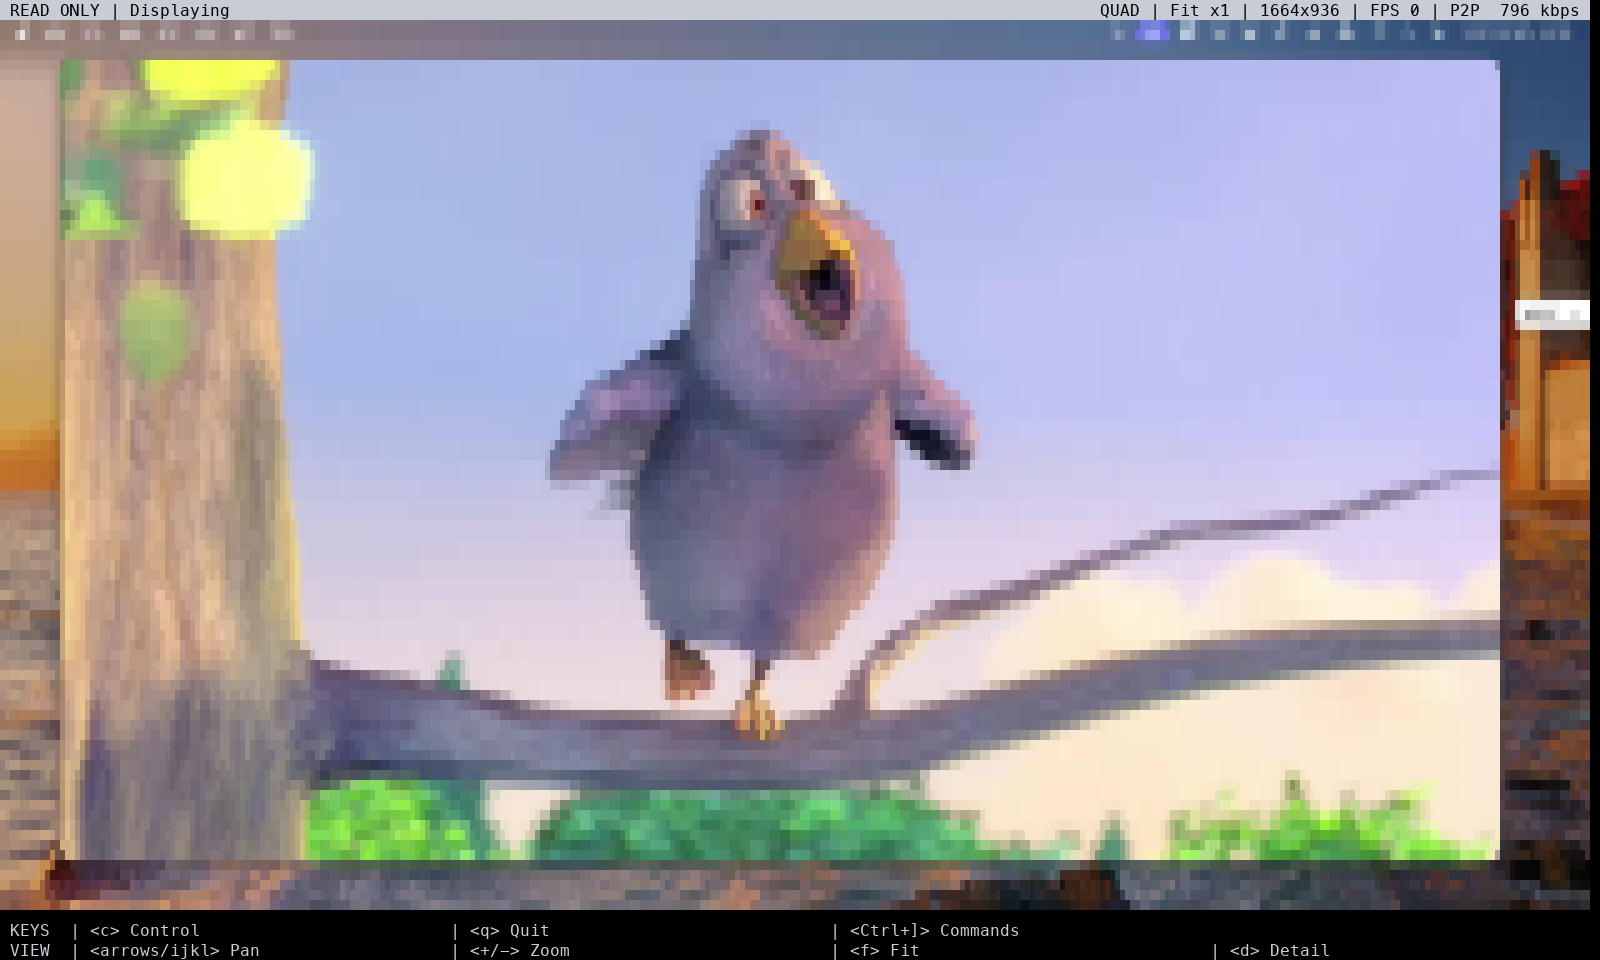
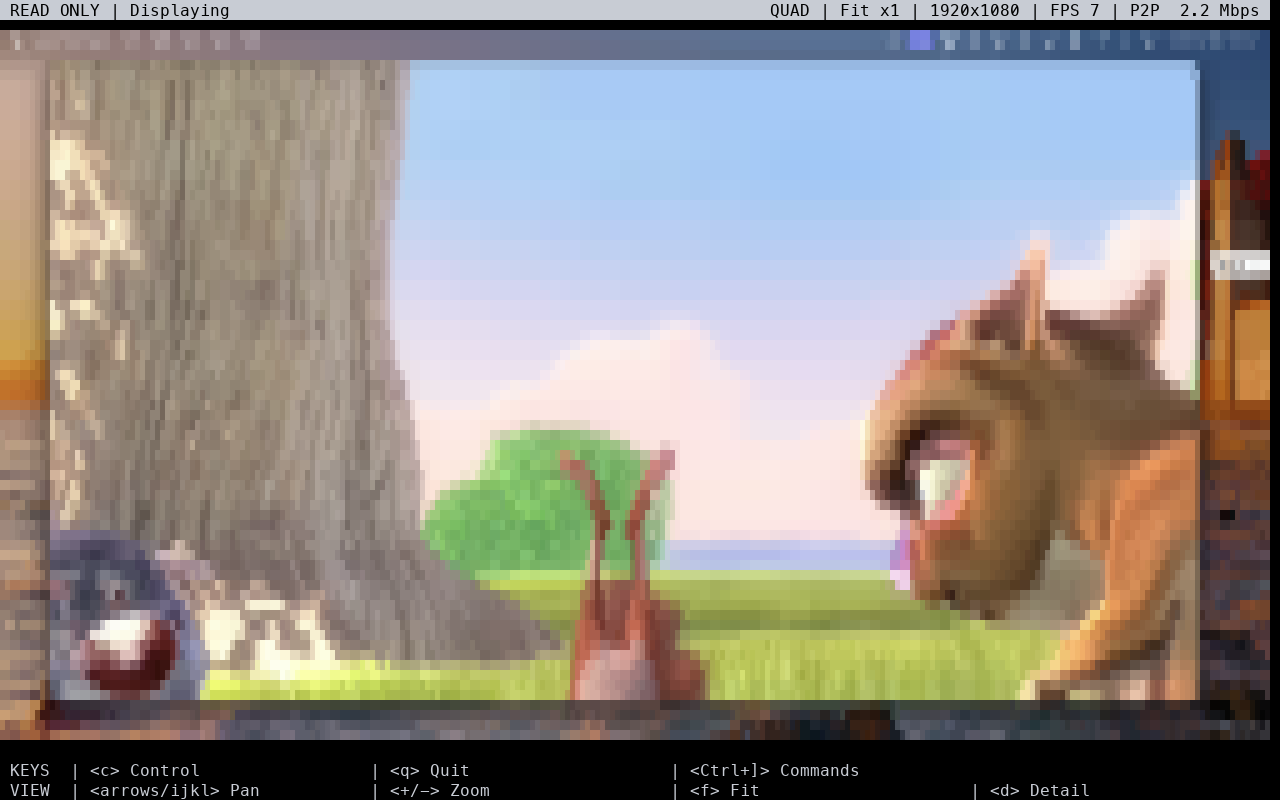
[docs] refresh CLI previews and clarify FPS capture

diff --git a/docs/images/README.md b/docs/images/README.md
@@ -35,8 +35,8 @@ On **2026-10-25**, 16 images were rendered from the actual Slint components at `
 | `desktop-stream-video-settings-*.png` | 会话工具栏与画面设置 / Session video settings | 1920 × 1200 |
 | `desktop-about-*.png` | 关于与检查更新 / About and update check | 1280 × 944 |
 | `web-client.png`（中文） | Web 连接首页 / Web connection page | 1280 × 720 |
-| `cli-ansi-overview.png` | CLI ANSI 四象限全景 / ANSI quadrant overview | 1600 × 960 |
-| `cli-kitty-overview.png` | CLI Kitty 协议像素全景 / Kitty protocol pixel overview | 1600 × 960 |
+| `cli-ansi-overview.png` | CLI ANSI 四象限全景 / ANSI quadrant overview | 1280 × 800 |
+| `cli-kitty-overview.png` | CLI Kitty 协议像素全景 / Kitty protocol pixel overview | 1280 × 800 |
 
 桌面图片使用 2× 原生渲染缩放，捕获窗口内容区，不包含 macOS 原生标题栏。未放大旧 UI 截图，也未重绘控件；演示远端画面由实际组件按比例显示。Markdown 只设置展示宽度。常规设置可滚动，`desktop-settings` 展示首屏，`desktop-settings-network` 展示网络连接分组；Windows 专属采集方式与便携版服务入口不会出现在这些 macOS 图片中。
 
@@ -44,15 +44,16 @@ On **2026-10-25**, 16 images were rendered from the actual Slint components at `
 
 ## CLI 图示 / CLI captures
 
-- **2026-10-31 04:39（UTC+8）重新采集**，使用在 macOS arm64 上从 `22796368` 构建的 release CLI，连接同一用户授权的被控设备，分别采集 ANSI 与 Kitty 输出。两次连接均保持只读；图示展示远端当前的动画窗口，替换此前的桌面壁纸画面。
-- 使用工程外的 POSIX 伪终端采集器，视口为 **160 列 × 48 行**，每格 **10 × 20 像素**，输出 PNG 为 **1600 × 960**。顶栏与底部快捷键直接来自 CLI 输出；图示不包含连接密码或真实设备 ID。
-- ANSI 图由实际转义序列恢复字符网格及前景／背景色，四象限字符按对应的色块渲染。Kitty 图由 CLI 内联发送的 zlib / Base64 RGB 帧解码，按协议 placement 的行列尺寸显示；采集器只提供内联图像能力，不支持共享内存。
+- **2026-10-31 04:56（UTC+8）重新采集**，使用在 macOS arm64 上从 `22796368` 构建的 release CLI，连接同一用户授权的被控设备，分别采集 ANSI 与 Kitty 输出。两次连接均保持只读；图示展示远端播放动画时的不同画面。
+- 使用工程外的 POSIX 伪终端采集器，视口为 **128 列 × 40 行**，每格 **10 × 20 像素**，输出 PNG 为 **1280 × 800**。顶栏与底部快捷键直接来自 CLI 输出；图示不包含连接密码或真实设备 ID。
+- ANSI 图由实际转义序列恢复字符网格及前景／背景色，四象限字符按对应的色块渲染。Kitty 图使用本地共享内存传输：采集器通过 `mmap` 复制完整 RGB 帧后返回确认，按协议 placement 的行列尺寸显示。采集时只读取状态栏所需的字符，保存图片时才做最终缩放和 PNG 渲染，减少采集器对输出的阻塞。
+- 截图中的 Kitty `FPS 27`、ANSI `FPS 7` 是当时统计区间的实际输出值。会话日志确认 Kitty 使用 `shared_memory`，未发生回退；静止画面下 ANSI 的差分为空时不产生新的输出计数，可显示 `FPS 0`。本轮同时缩小了视口并优化采集器，不能据此单独量化窗口大小的性能收益。
 - 这些图片是**实际 CLI 输出的渲染图**。Ghostty 和 macOS「终端」窗口的自动化访问被工具拒绝，未取得原生窗口截图，也未据此完成这两款应用的实窗验收。字体栅格、图像缩放和显示时序由采集器处理，不能用图中 FPS 推断 Ghostty 或其他终端的实际显示性能。
 - 构建配置、采集脚本、原始输出与中间产物均存放在工程外临时目录；工程内只保存最终图示及文档。示例命令使用占位 ID，凭据通过隐藏提示输入。
 
-Refreshed at **04:39 (UTC+8) on 2026-10-31** with a macOS arm64 release CLI built from `22796368`, using real read-only connections to the same authorized host. Both images now show the animation window on the remote desktop, replacing the previous wallpaper views. An external POSIX PTY collector reports 160 × 48 cells at 10 × 20 pixels and renders the actual CLI output to PNG. The ANSI image reconstructs character cells and colors; the Kitty image decodes inline RGB frames and applies their placement dimensions. The collector does not support shared-memory images. These are output renderings; native Ghostty and macOS Terminal window access was denied by the automation tool. They do not validate either application's window rendering or display performance. Passwords and real device IDs are omitted. Capture scripts, raw output, build configuration, and intermediate files stay outside the repository.
+Refreshed at **04:56 (UTC+8) on 2026-10-31** with a macOS arm64 release CLI built from `22796368`, using real read-only connections to the same authorized host during animation playback. An external POSIX PTY collector reports 128 × 40 cells at 10 × 20 pixels and renders the actual CLI output to PNG. The ANSI image reconstructs character cells and colors. The Kitty collector copies each complete shared-memory RGB frame through `mmap` before acknowledging it, then applies placement dimensions when saving the image. Status polling reads only the top row, and final image scaling and PNG rendering happen only when saving. The captured Kitty `FPS 27` and ANSI `FPS 7` are interval output counts; an unchanged ANSI view can show `FPS 0`. Both viewport size and collector processing changed, so this is not an isolated window-size benchmark. These output renderings do not validate native Ghostty or macOS Terminal rendering or GPU performance. Passwords and real device IDs are omitted. Capture scripts, raw output, build configuration, and intermediate files stay outside the repository.
 
-重新采集时，使用 release CLI，在支持相应协议的终端或 PTY 采集器中分别运行 `crossdesk-cli <设备ID> --renderer ansi --quality high` 和 `crossdesk-cli <设备ID> --renderer kitty --quality high`，通过隐藏提示输入密码，等待顶栏显示 `Displaying` 后捕获完整视口，再按 `q` 退出。若使用 PTY 采集器，须正确处理终端尺寸回复、ANSI 光标与颜色、Kitty 探测、分块上传和 placement 缩放，并在图注中明确采集方式。更新图片前检查敏感信息、画面比例和状态栏完整性，并同步更新本节的日期、版本与验证范围。
+重新采集时，使用 release CLI，在支持相应协议的终端或 PTY 采集器中分别运行 `crossdesk-cli <设备ID> --renderer ansi --quality high` 和 `crossdesk-cli <设备ID> --renderer kitty --quality high`，通过隐藏提示输入密码，等待顶栏显示 `Displaying` 且统计稳定后捕获完整视口，再按 `q` 退出。若使用 PTY 采集器，须正确处理终端尺寸回复、ANSI 光标与颜色、Kitty 探测、分块上传、共享内存读取与确认，以及 placement 缩放，并在图注中明确采集方式。更新图片前检查敏感信息、画面比例和状态栏完整性，并同步更新本节的日期、版本与验证范围。
 
 ## 重新生成 / Regenerate
 

diff --git a/README_EN.md b/README_EN.md
@@ -139,7 +139,7 @@ Remote sessions support monitor switching, video quality and frame-rate controls
 | <img src="docs/images/cli-ansi-overview.png" width="480" alt="CrossDesk CLI ANSI quadrant overview, with read-only mode and connection status at the top and shortcuts at the bottom" /> | <img src="docs/images/cli-kitty-overview.png" width="480" alt="CrossDesk CLI Kitty protocol overview of the same remote desktop, rendered as pixels with the status bar and shortcuts" /> |
 | Colored characters show the desktop in standard terminals; press `d` to inspect a smaller region. | Pixel graphics display the desktop in terminals supporting the Kitty graphics protocol, such as Ghostty. |
 
-Both images were captured on **2026-10-31** from real read-only connections to the same authorized host. They render the CLI's ANSI / Kitty protocol output in a 160 × 48 character viewport. Actual terminal appearance depends on the font, window size, and protocol support. See [capture notes](docs/images/README.md#cli-captures) for the method.
+Both images were captured on **2026-10-31** from real read-only connections to the same authorized host. They render the CLI's ANSI / Kitty protocol output in a 128 × 40 character viewport. FPS counts actual output during capture; an unchanged ANSI view can show `FPS 0`. Actual terminal appearance depends on the font, window size, and protocol support. See [capture notes](docs/images/README.md#cli-captures) for the method.
 
 <a id="cli-npm"></a>
 
